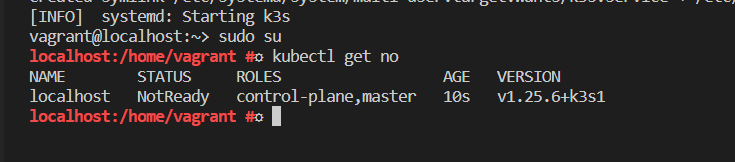
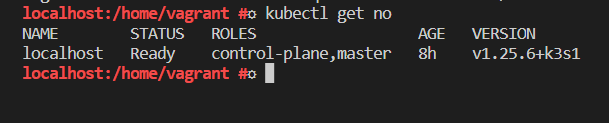
Added stdout/stderr logs, k3s ready status screenshot, and ports for readiness & liveness probes in values.yaml

diff --git a/techtrends/app.py b/techtrends/app.py
@@ -1,6 +1,7 @@
 import sqlite3
 import logging
 import datetime
+import sys
 
 from flask import Flask, jsonify, json, render_template, request, url_for, redirect, flash
 from werkzeug.exceptions import abort
@@ -138,5 +139,6 @@ def metrics():
 # start the application on port 3111
 if __name__ == "__main__":
     # streaming logs
-    logging.basicConfig(level=logging.DEBUG)
+    logging.basicConfig(level=logging.DEBUG, handlers=[
+        logging.StreamHandler(sys.stdout), logging.StreamHandler(sys.stderr)])
     app.run(host='0.0.0.0', port='3111')
